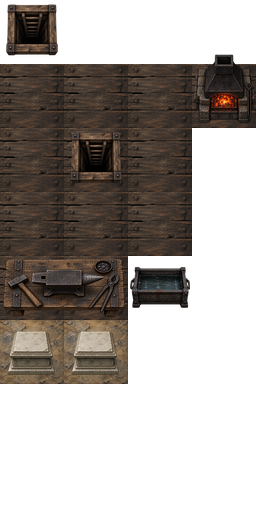
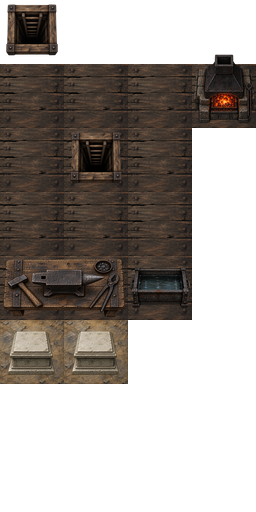
Fix paid wand upgrades, smithy water backing and shared targeting art

Changed region(s): [[0.5, 0.5, 0.75, 0.625]]

diff --git a/core/src/test/java/com/shatteredpixel/shatteredpixeldungeon/acceptance/SmokeRun.java b/core/src/test/java/com/shatteredpixel/shatteredpixeldungeon/acceptance/SmokeRun.java
@@ -663,6 +663,36 @@ public class SmokeRun {
         Level original = Dungeon.level;
         int minimum = Integer.MAX_VALUE, maximum = 0, buried = 0, invalidSecretRooms = 0;
         try {
+            com.shatteredpixel.shatteredpixeldungeon.actors.mobs.npcs.Blacksmith.Quest.favor=3000;
+            com.shatteredpixel.shatteredpixeldungeon.actors.mobs.npcs.Blacksmith.Quest.upgrades=0;
+            com.shatteredpixel.shatteredpixeldungeon.items.wands.WandOfDisintegration wand=
+                    new com.shatteredpixel.shatteredpixeldungeon.items.wands.WandOfDisintegration();
+            wand.identify();wand.resinBonus=1;wand.updateLevel();
+            check(wand.level()==1 && wand.trueLevel()==0,"resin wand initial levels");
+            check(com.shatteredpixel.shatteredpixeldungeon.actors.mobs.npcs.Blacksmith.Quest.upgradeItem(wand)
+                    && wand.level()==2 && wand.trueLevel()==1 && wand.resinBonus==1
+                    && com.shatteredpixel.shatteredpixeldungeon.actors.mobs.npcs.Blacksmith.Quest.favor==2000,
+                    "paid wand upgrade consumed resin or favor without effective improvement");
+            check(!com.shatteredpixel.shatteredpixeldungeon.actors.mobs.npcs.Blacksmith.Quest.upgradeItem(wand)
+                    && com.shatteredpixel.shatteredpixeldungeon.actors.mobs.npcs.Blacksmith.Quest.favor==2000,
+                    "duplicate/capped upgrade charged favor");
+            Bundle wandSave=new Bundle();wandSave.put("wand",wand);
+            com.shatteredpixel.shatteredpixeldungeon.items.wands.Wand restoredWand=
+                    (com.shatteredpixel.shatteredpixeldungeon.items.wands.Wand)wandSave.get("wand");
+            check(restoredWand.level()==2 && restoredWand.trueLevel()==1 && restoredWand.resinBonus==1,"forged resin wand save/load");
+            com.shatteredpixel.shatteredpixeldungeon.items.wands.WandOfDisintegration plain=
+                    new com.shatteredpixel.shatteredpixeldungeon.items.wands.WandOfDisintegration();
+            plain.level(1);plain.identify();
+            check(com.shatteredpixel.shatteredpixeldungeon.actors.mobs.npcs.Blacksmith.Quest.upgradeItem(plain)
+                    && plain.level()==2 && com.shatteredpixel.shatteredpixeldungeon.actors.mobs.npcs.Blacksmith.Quest.favor==0,
+                    "ordinary +1 wand upgrade or escalating cost");
+            com.shatteredpixel.shatteredpixeldungeon.items.wands.WandOfDisintegration scrollWand=
+                    new com.shatteredpixel.shatteredpixeldungeon.items.wands.WandOfDisintegration();
+            scrollWand.resinBonus=1;scrollWand.upgrade();
+            check(scrollWand.level()==1 && scrollWand.resinBonus==0,"scroll resin behavior changed");
+            check(!com.shatteredpixel.shatteredpixeldungeon.actors.mobs.npcs.Blacksmith.Quest.upgradeItem(scrollWand)
+                    && com.shatteredpixel.shatteredpixeldungeon.actors.mobs.npcs.Blacksmith.Quest.favor==0,"unaffordable upgrade charged favor");
+            System.out.println("BLACKSMITH PASS: +1 ordinary/resin wands become +2, resin retained, save/load, once-only favor costs and scroll behavior");
             Dungeon.depth = 12; Dungeon.branch = 1;
             for (int type = 1; type <= 2; type++) for (int sample = 0; sample < 104; sample++) {
                 Dungeon.seed = sample < 100 ? sample : 4507775544315L;

diff --git a/tools/painted/talent_trim.py b/tools/painted/talent_trim.py
@@ -52,4 +52,14 @@ def outputs():
     d.polygon([(184,48),(212,72),(184,96)],fill=(239,206,149,255))
     atlas.paste(shuffle.resize((64,64),Image.Resampling.LANCZOS),(5*CELL,0))
     atlas.paste(patch(panels()[0],(64,64),(6,6,6,6)),(6*CELL,0))
+    # Shared aiming mark: smooth metal arcs, a dark edge and an open center.
+    target=Image.new('RGBA',(256,256));d=ImageDraw.Draw(target)
+    for start in (12,102,192,282):
+        d.arc((28,28,228,228),start,start+66,fill=(24,18,14,240),width=24)
+        d.arc((32,32,224,224),start,start+66,fill=(163,118,71,255),width=15)
+        d.arc((34,34,222,222),start+2,start+63,fill=(246,225,184,255),width=6)
+    for points in (((128,9),(128,58)),((128,198),(128,247)),((9,128),(58,128)),((198,128),(247,128))):
+        d.line(points,fill=(24,18,14,245),width=21)
+        d.line(points,fill=(232,202,151,255),width=11)
+    atlas.paste(target.resize((64,64),Image.Resampling.LANCZOS),(7*CELL,0))
     return {'interfaces/painted_talents.png':atlas}

diff --git a/core/src/main/java/com/shatteredpixel/shatteredpixeldungeon/actors/mobs/npcs/Blacksmith.java b/core/src/main/java/com/shatteredpixel/shatteredpixeldungeon/actors/mobs/npcs/Blacksmith.java
@@ -220,6 +220,22 @@ public class Blacksmith extends NPC {
 		public static int upgrades;
 		public static int smiths;
 
+		public static boolean canUpgrade(Item item) {
+			return item != null && item.isUpgradable() && item.isIdentified()
+					&& !item.cursed && item.level() < 2;
+		}
+
+		public static boolean upgradeItem(Item item) {
+			int cost = 1000 + 1000 * upgrades;
+			if (!canUpgrade(item) || favor < cost) return false;
+			if (item instanceof com.shatteredpixel.shatteredpixeldungeon.items.wands.Wand)
+				((com.shatteredpixel.shatteredpixeldungeon.items.wands.Wand)item).upgradeAtForge();
+			else item.upgrade();
+			favor -= cost;
+			upgrades++;
+			return true;
+		}
+
 		//pre-generate these so they are consistent between seeds
 		public static ArrayList<Item> smithRewards;
 		public static Weapon.Enchantment smithEnchant;

diff --git a/tools/painted/quest_rooms.py b/tools/painted/quest_rooms.py
@@ -153,9 +153,10 @@ def outputs(world,features):
     work=Image.new('RGBA',(128,64));art=sized(forge()[1],(122,58));work.alpha_composite(art,(3,3))
     for index,box in [(16,(0,0,64,64)),(17,(64,0,128,64))]:
         tile=floor.copy();tile.alpha_composite(work.crop(box));put(smithy,index,tile)
-    # The lower-right cell is a separate water-filled quenching basin, not a
-    # third fragment of the anvil. Its gameplay water flag remains unchanged.
+    # Keep the quenching water inside its basin; opaque smithy paving prevents
+    # the gameplay water backing from drawing a pool beneath the workshop.
     from regional_scenery import props
-    put(smithy,18,centered(props()[0],(60,54)))
+    basin=floor.copy();basin.alpha_composite(centered(props()[0],(60,54)))
+    put(smithy,18,basin)
     output[path]=smithy
     return output

diff --git a/core/src/main/java/com/shatteredpixel/shatteredpixeldungeon/windows/WndBlacksmith.java b/core/src/main/java/com/shatteredpixel/shatteredpixeldungeon/windows/WndBlacksmith.java
@@ -420,19 +420,12 @@ public class WndBlacksmith extends Window {
 
 		@Override
 		public boolean itemSelectable(Item item) {
-			return item.isUpgradable()
-					&& item.isIdentified()
-					&& !item.cursed
-					&& item.level() < 2;
+			return Blacksmith.Quest.canUpgrade(item);
 		}
 
 		@Override
 		public void onSelect(Item item) {
-			if (item != null) {
-				item.upgrade();
-				int upgradeCost = 1000 + 1000*Blacksmith.Quest.upgrades;
-				Blacksmith.Quest.favor -= upgradeCost;
-				Blacksmith.Quest.upgrades++;
+			if (Blacksmith.Quest.upgradeItem(item)) {
 
 				WndBlacksmith.this.hide();
 

diff --git a/core/src/main/java/com/shatteredpixel/shatteredpixeldungeon/items/wands/Wand.java b/core/src/main/java/com/shatteredpixel/shatteredpixeldungeon/items/wands/Wand.java
@@ -387,6 +387,16 @@ public abstract class Wand extends Item {
 		return this;
 	}
 
+	/** The blacksmith improves the wand without replacing its existing resin. */
+	public Item upgradeAtForge() {
+		int resin = resinBonus;
+		upgrade();
+		resinBonus = resin;
+		updateLevel();
+		updateQuickslot();
+		return this;
+	}
+
 	@Override
 	public int buffedLvl() {
 		int lvl = super.buffedLvl();

diff --git a/core/src/main/java/com/shatteredpixel/shatteredpixeldungeon/ui/Icons.java b/core/src/main/java/com/shatteredpixel/shatteredpixeldungeon/ui/Icons.java
@@ -144,6 +144,7 @@ public enum Icons {
 	
 	public static Image get( Icons type ) {
         if(type==SHUFFLE)return TalentMarkers.image(5,14);
+        if(type==TARGET)return TalentMarkers.image(7,16);
 		Image icon = new Image( Assets.Interfaces.ICONS );
 		switch (type) {
 

diff --git a/CHANGES.md b/CHANGES.md
@@ -1,3 +1,10 @@
+# Workshop and targeting component - 2026-10-10
+
+- Cover the smithy's quenching-cell water backing with its existing opaque workshop paving; keep the actual basin's water interaction and all room terrain unchanged. Repack through the existing painted pipeline without generating art.
+- Share a smooth, original metal-ring targeting mark across quickslots, selected creatures and targeted cells, using the existing reproducible bronze-trim atlas.
+- The paid blacksmith upgrade preserves existing wand resin, so a resin-enhanced +1 wand actually becomes +2. Normal scroll upgrades retain upstream's resin conversion. Centralize eligibility/payment and recheck them before spending favor; capped, stale or unaffordable selections cannot charge. Original tablet save/resin history unavailable; the reproduced resin case and ordinary +1 Disintegration wand both pass.
+- Component gate: Windows/Android builds and eight unit tests pass; combined class Runs=30 failures=0, BUILD SUCCESSFUL in 3m 22s. Existing mine checks also cover resin persistence, once-only/escalating favor costs and unchanged scroll behavior. Art pack: 1936 assets, 182 source sheets, failures=0.
+
 # Journal title v1.29.16 - 2026-10-10
 
 - Resolve the Bounty Board landmark's title through the board's existing localized name, matching its description. Existing saved COLE notes keep their identity and now show Bounty Board instead of a missing-text placeholder. No quest, gameplay or artwork changes.
